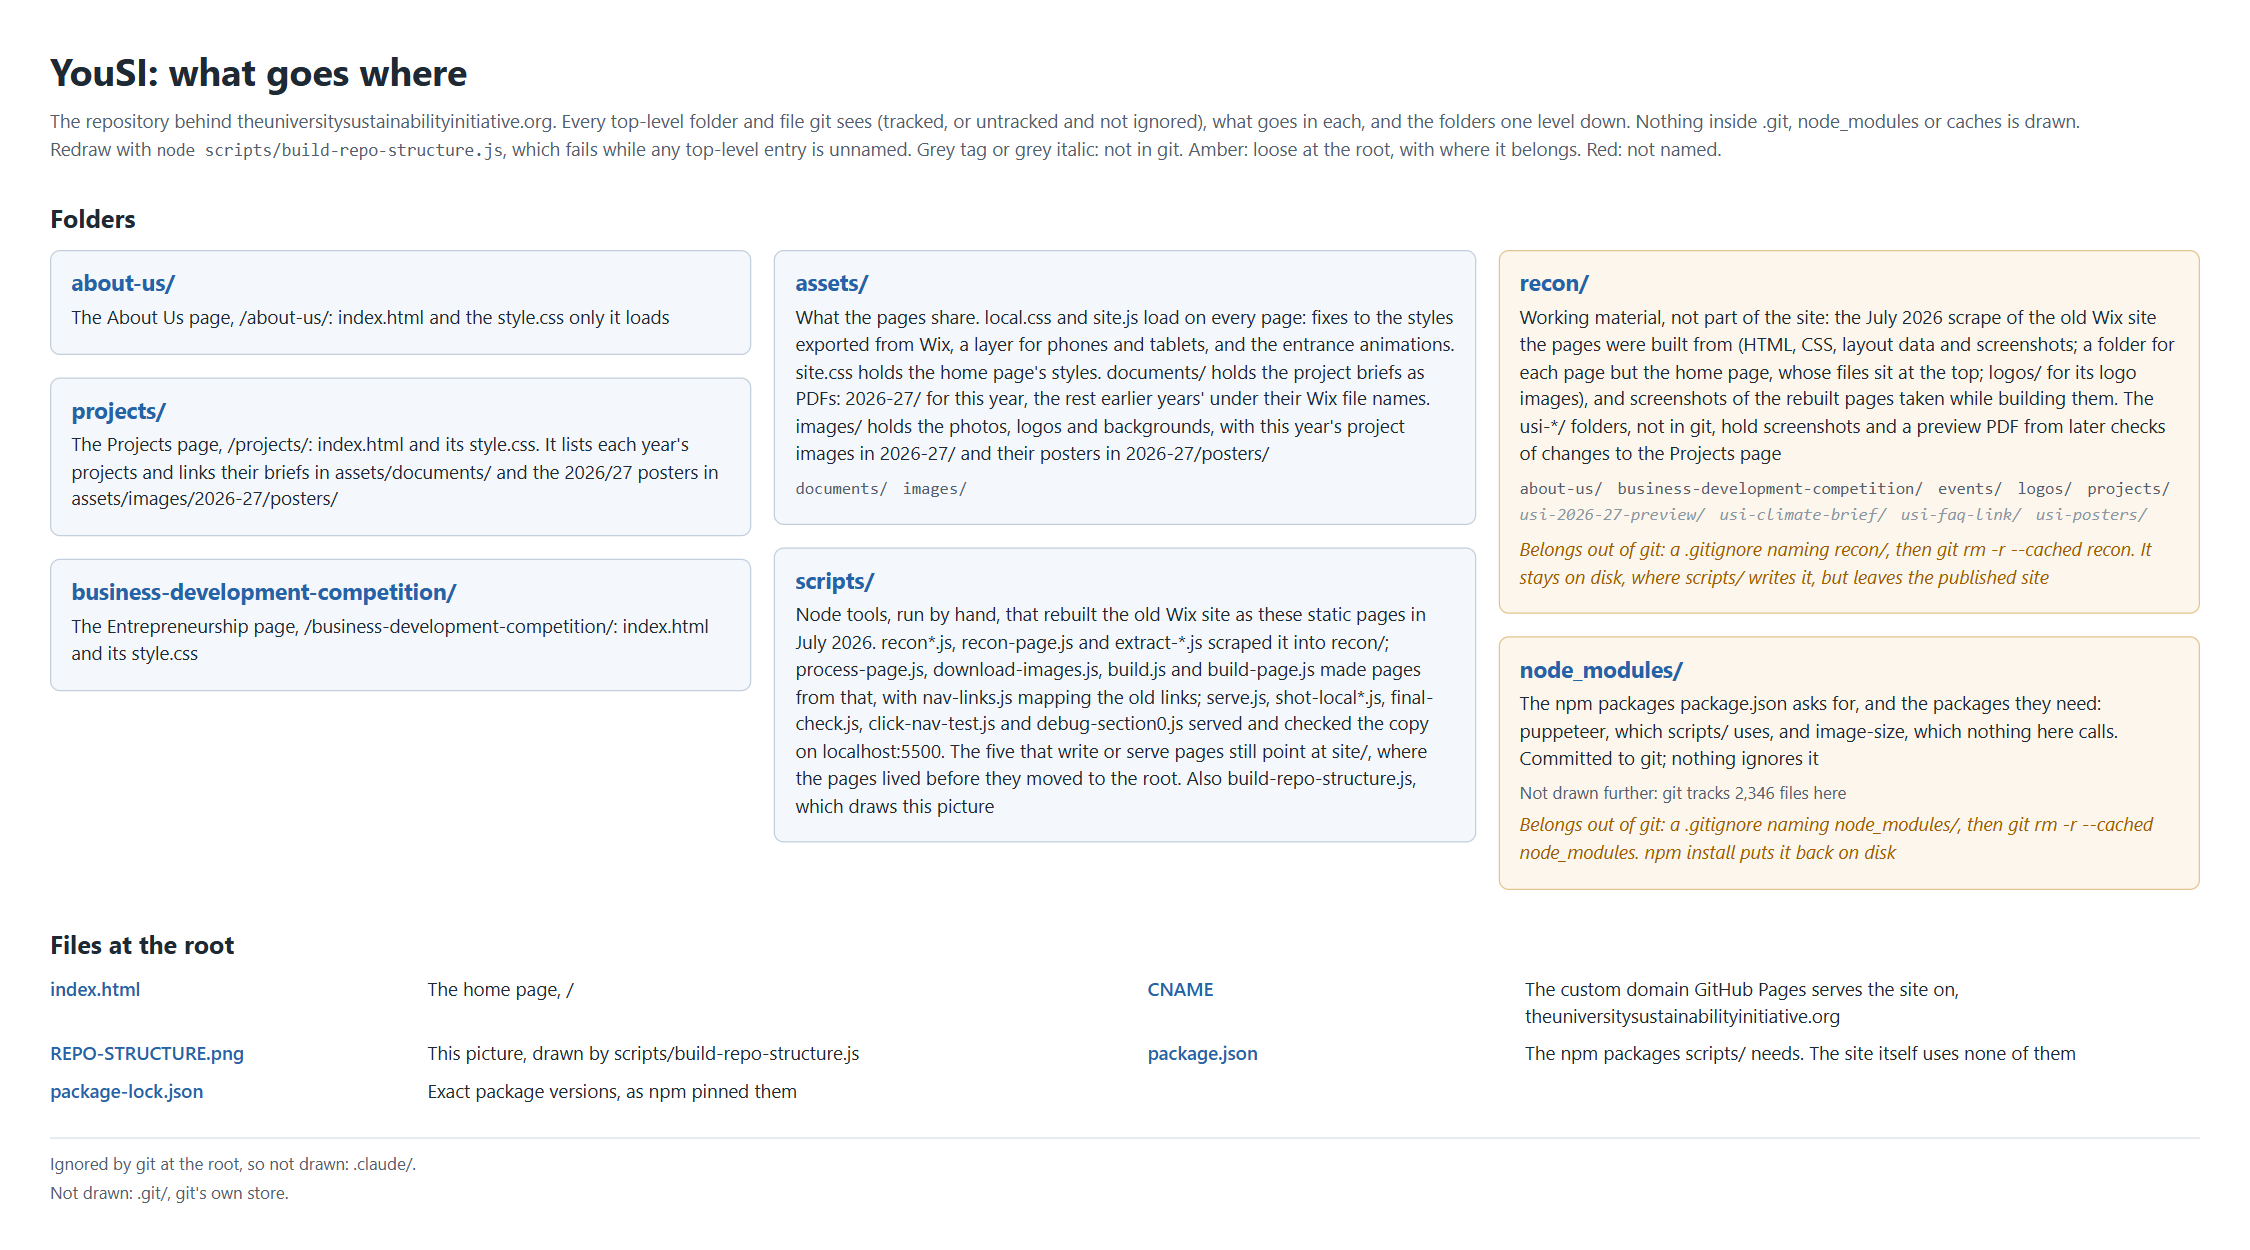
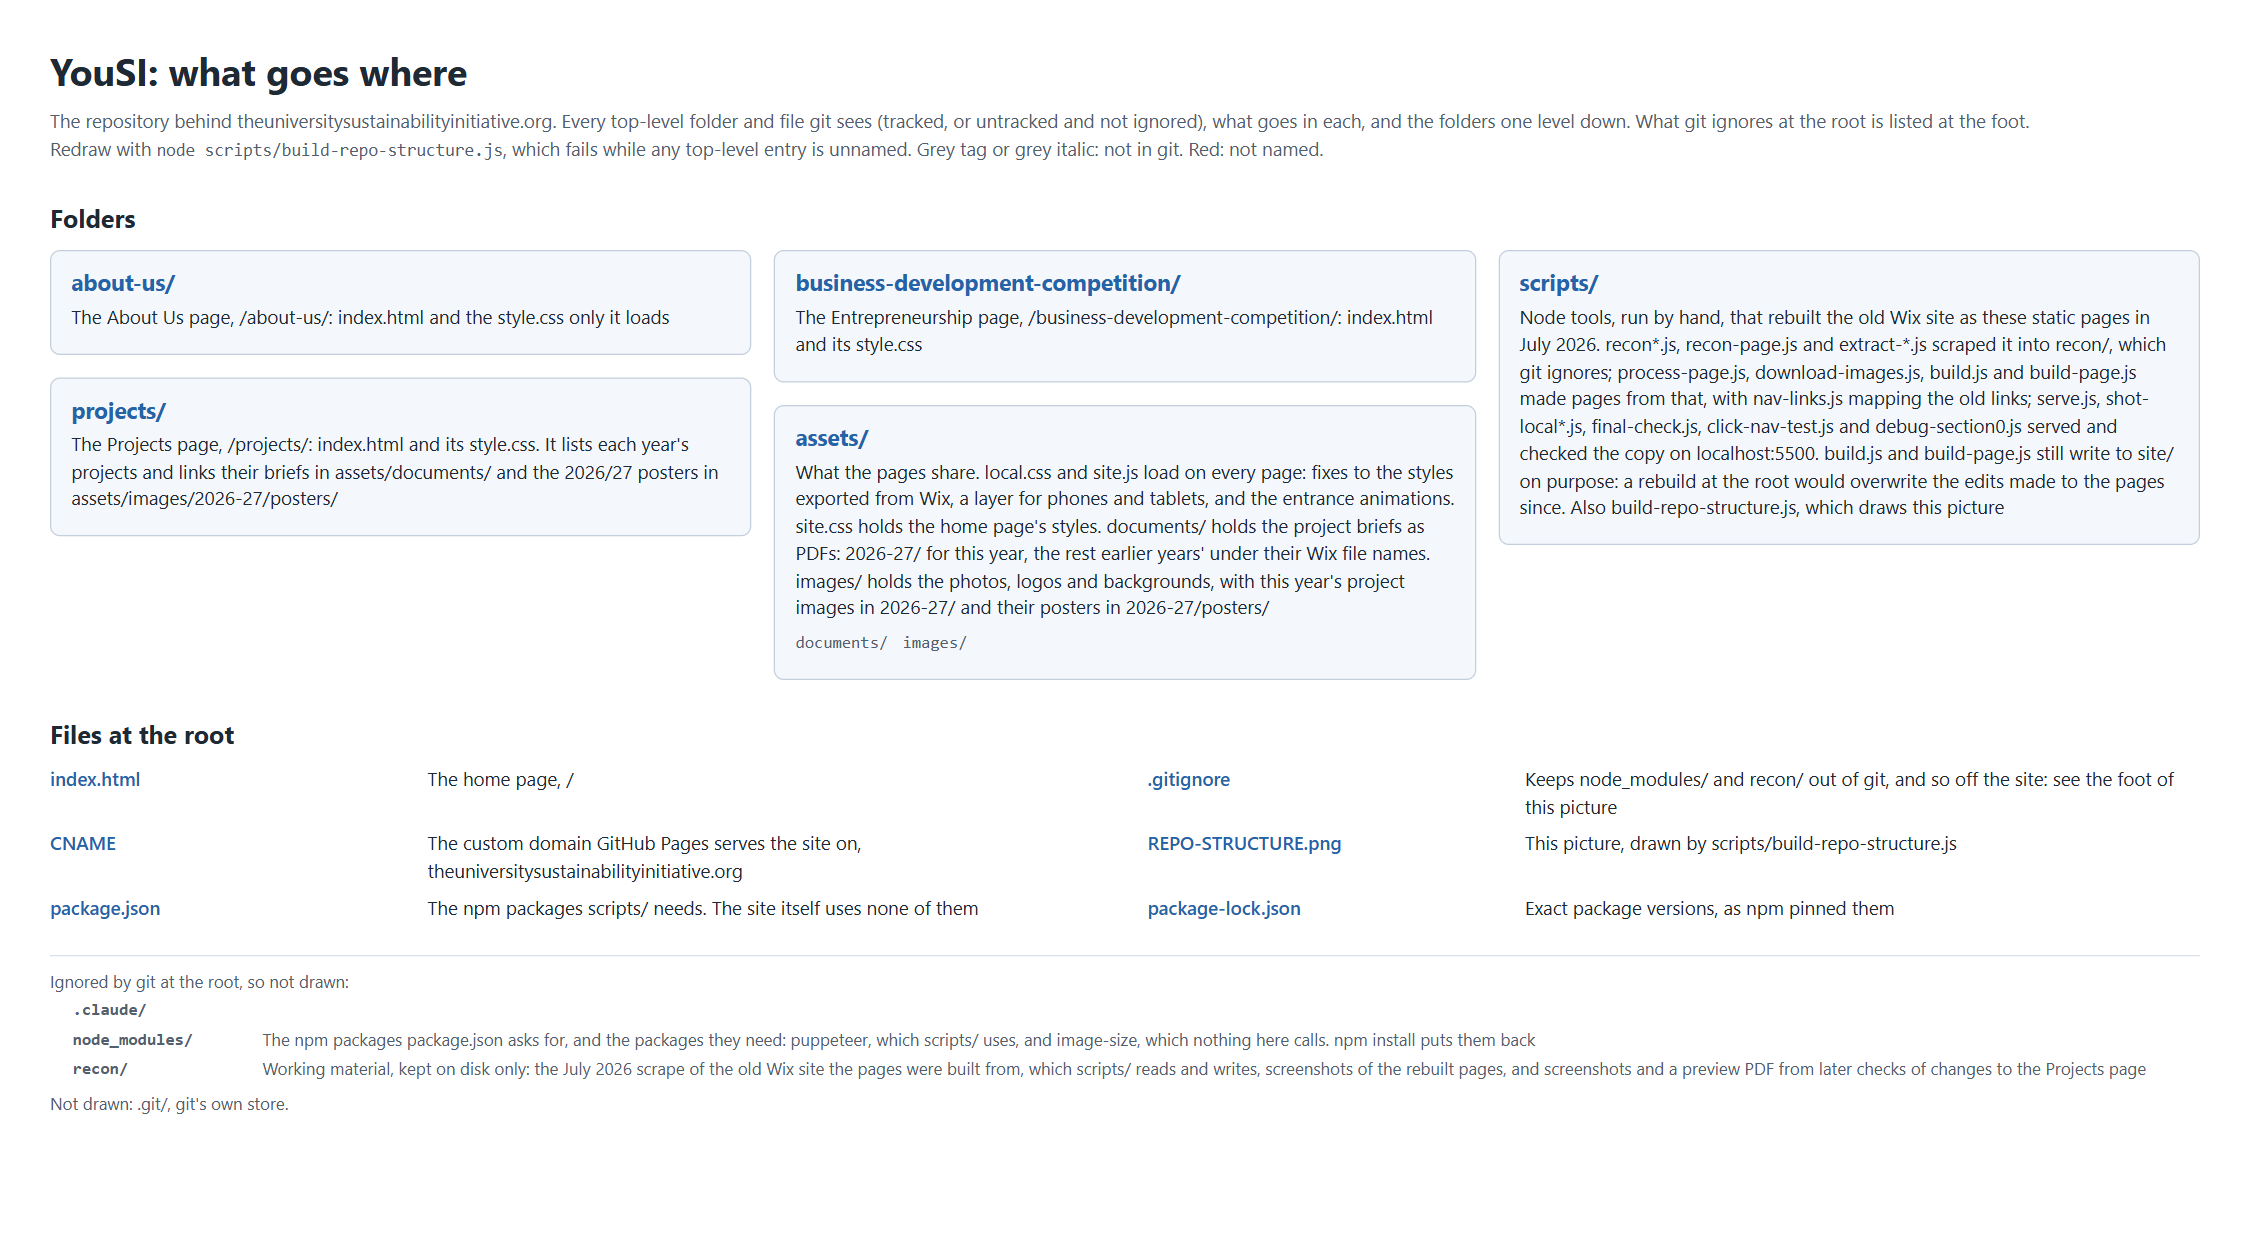
Redraw REPO-STRUCTURE.png now that node_modules/ and recon/ are ignored
Neither folder is in git's view any more, so neither is drawn, and nothing is
amber. The foot of the picture now says what each ignored root entry holds,
from a new IGNORED list in scripts/build-repo-structure.js. .gitignore is
named, scripts/ says which tools still write to site/ and why, the colour key
mentions amber only when something is loose, and the script prints what is
loose with each run: none, this time.

diff --git a/scripts/build-repo-structure.js b/scripts/build-repo-structure.js
@@ -6,7 +6,8 @@
  * The tree is git's view of the repository: `git ls-files` plus untracked files
  * that are not ignored. It never looks inside .git, node_modules or caches; a
  * top-level one that git sees is still drawn and must be named. Ignored root
- * entries are listed in the footer. It draws first, then exits 1 if any
+ * entries are listed in the footer, with what IGNORED says they hold. It draws
+ * first, then exits 1 if any
  * top-level entry has no line in FOLDERS or FILES below, so nothing new reaches
  * the root without saying what it is.
  *
@@ -43,25 +44,19 @@ const FOLDERS = {
     + 'in 2026-27/posters/',
   scripts: 'Node tools, run by hand, that rebuilt the old Wix site as these static '
     + 'pages in July 2026. recon*.js, recon-page.js and extract-*.js scraped it into '
-    + 'recon/; process-page.js, download-images.js, build.js and build-page.js made '
-    + 'pages from that, with nav-links.js mapping the old links; serve.js, '
-    + 'shot-local*.js, final-check.js, click-nav-test.js and debug-section0.js '
-    + 'served and checked the copy on localhost:5500. The five that write or serve '
-    + 'pages still point at site/, where the pages lived before they moved to the '
-    + 'root. Also build-repo-structure.js, which draws this picture',
-  recon: 'Working material, not part of the site: the July 2026 scrape of the old '
-    + 'Wix site the pages were built from (HTML, CSS, layout data and screenshots; '
-    + 'a folder for each page but the home page, whose files sit at the top; logos/ '
-    + 'for its logo images), and screenshots of the rebuilt pages taken while '
-    + 'building them. The usi-*/ folders, not in git, hold screenshots and a '
-    + 'preview PDF from later checks of changes to the Projects page',
-  node_modules: 'The npm packages package.json asks for, and the packages they '
-    + 'need: puppeteer, which scripts/ uses, and image-size, which nothing here '
-    + 'calls. Committed to git; nothing ignores it',
+    + 'recon/, which git ignores; process-page.js, download-images.js, build.js and '
+    + 'build-page.js made pages from that, with nav-links.js mapping the old links; '
+    + 'serve.js, shot-local*.js, final-check.js, click-nav-test.js and '
+    + 'debug-section0.js served and checked the copy on localhost:5500. build.js and '
+    + 'build-page.js still write to site/ on purpose: a rebuild at the root would '
+    + 'overwrite the edits made to the pages since. Also build-repo-structure.js, '
+    + 'which draws this picture',
 };
 
 const FILES = {
   'index.html': 'The home page, /',
+  '.gitignore': 'Keeps node_modules/ and recon/ out of git, and so off the site: '
+    + 'see the foot of this picture',
   CNAME: 'The custom domain GitHub Pages serves the site on, '
     + 'theuniversitysustainabilityinitiative.org',
   'REPO-STRUCTURE.png': 'This picture, drawn by scripts/build-repo-structure.js',
@@ -70,13 +65,19 @@ const FILES = {
   'package-lock.json': 'Exact package versions, as npm pinned them',
 };
 
-/* Entries at the root that belong elsewhere, and where. A proposal: nothing is
- * moved by this script. */
-const LOOSE = {
-  node_modules: 'out of git: a .gitignore naming node_modules/, then git rm -r '
-    + '--cached node_modules. npm install puts it back on disk',
-  recon: 'out of git: a .gitignore naming recon/, then git rm -r --cached recon. '
-    + 'It stays on disk, where scripts/ writes it, but leaves the published site',
+/* Entries at the root that belong elsewhere, and where, drawn in amber. A
+ * proposal: nothing is moved by this script. */
+const LOOSE = {};
+
+/* What the root entries .gitignore names hold, for the footer. */
+const IGNORED = {
+  node_modules: 'The npm packages package.json asks for, and the packages they '
+    + 'need: puppeteer, which scripts/ uses, and image-size, which nothing here '
+    + 'calls. npm install puts them back',
+  recon: 'Working material, kept on disk only: the July 2026 scrape of the old Wix '
+    + 'site the pages were built from, which scripts/ reads and writes, screenshots '
+    + 'of the rebuilt pages, and screenshots and a preview PDF from later checks of '
+    + 'changes to the Projects page',
 };
 
 function git(...args) {
@@ -166,9 +167,11 @@ function page({ folders, files, tracked, skipped }, unnamed) {
   const ignored = ignoredAtRoot();
   const offView = fs.readdirSync(ROOT, { withFileTypes: true })
     .filter((d) => !drawn.has(d.name) && d.name !== '.git')
-    .map((d) => ({ name: d.name + (d.isDirectory() ? '/' : ''), ignored: ignored.has(d.name) }));
-  const ignoredNames = offView.filter((e) => e.ignored).map((e) => e.name).sort(byName);
+    .map((d) => ({ key: d.name, name: d.name + (d.isDirectory() ? '/' : ''), ignored: ignored.has(d.name) }));
+  const ignoredRows = offView.filter((e) => e.ignored).sort((a, b) => byName(a.name, b.name))
+    .map((e) => `<div class="row"><div class="name">${esc(e.name)}</div><div>${esc(IGNORED[e.key] || '')}</div></div>`);
   const otherNames = offView.filter((e) => !e.ignored).map((e) => e.name).sort(byName);
+  const anyLoose = [...folders.keys(), ...files].some((n) => n in LOOSE);
 
   return `<!doctype html><html><head><meta charset="utf-8"><style>
     body { margin: 0; padding: 36px 40px 32px; width: 1720px; font: 15px/1.45 "Segoe UI", system-ui, sans-serif; color: #1f2933; background: #fff; }
@@ -194,16 +197,20 @@ function page({ folders, files, tracked, skipped }, unnamed) {
     .row.loose .name { color: #a15c00; }
     .foot { color: #52606d; font-size: 13.5px; margin-top: 26px; border-top: 1px solid #d9e1ea; padding-top: 10px; }
     .foot p { margin: 0 0 4px; }
+    .foot .ignored { display: grid; grid-template-columns: 1fr; row-gap: 4px; margin: 4px 0 8px 18px; }
+    .foot .row { grid-template-columns: 140px 1fr; }
+    .foot .row .name { font: 600 13.5px/1.45 Consolas, monospace; color: #52606d; }
   </style></head><body>
     <h1>YouSI: what goes where</h1>
-    <p class="sub">The repository behind theuniversitysustainabilityinitiative.org. Every top-level folder and file git sees (tracked, or untracked and not ignored), what goes in each, and the folders one level down. Nothing inside .git, node_modules or caches is drawn.</p>
-    <p class="sub">Redraw with <code>node scripts/build-repo-structure.js</code>, which fails while any top-level entry is unnamed. Grey tag or grey italic: not in git. Amber: loose at the root, with where it belongs. Red: not named.</p>
+    <p class="sub">The repository behind theuniversitysustainabilityinitiative.org. Every top-level folder and file git sees (tracked, or untracked and not ignored), what goes in each, and the folders one level down. What git ignores at the root is listed at the foot.</p>
+    <p class="sub">Redraw with <code>node scripts/build-repo-structure.js</code>, which fails while any top-level entry is unnamed. Grey tag or grey italic: not in git.${anyLoose ? ' Amber: loose at the root, with where it belongs.' : ''} Red: not named.</p>
     <h2>Folders</h2>
     <div class="cards">${cards}</div>
     <h2>Files at the root</h2>
     <div class="files">${rows}</div>
     <div class="foot">
-      <p>Ignored by git at the root, so not drawn: ${ignoredNames.length ? list(ignoredNames) : 'none'}.</p>
+      <p>Ignored by git at the root, so not drawn${ignoredRows.length ? ':' : ': none.'}</p>
+      ${ignoredRows.length ? `<div class="ignored">${ignoredRows.join('\n')}</div>` : ''}
       ${otherNames.length ? `<p>Also on this disk but outside git's view (empty, or holding only ignored files): ${list(otherNames)}.</p>` : ''}
       <p>Not drawn: .git/, git's own store.</p>
     </div>
@@ -243,6 +250,8 @@ async function main() {
   console.log(`drew ${path.basename(OUT)}: ${nTop} top-level entries (${tree.folders.size} folders, `
     + `${tree.files.size} files), ${nSub} second-level folders`);
   if (stale.length) console.log('note: named here but not in the repository: ' + stale.join(', '));
+  const loose = [...tree.folders.keys(), ...tree.files].filter((n) => n in LOOSE).sort(byName);
+  console.log(`loose at the root (amber): ${loose.length ? loose.join(', ') : 'none'}`);
   if (unnamed.size) {
     console.log(`top-level check FAILED: ${unnamed.size} of ${nTop} entries unnamed: `
       + [...unnamed].sort(byName).join(', '));
